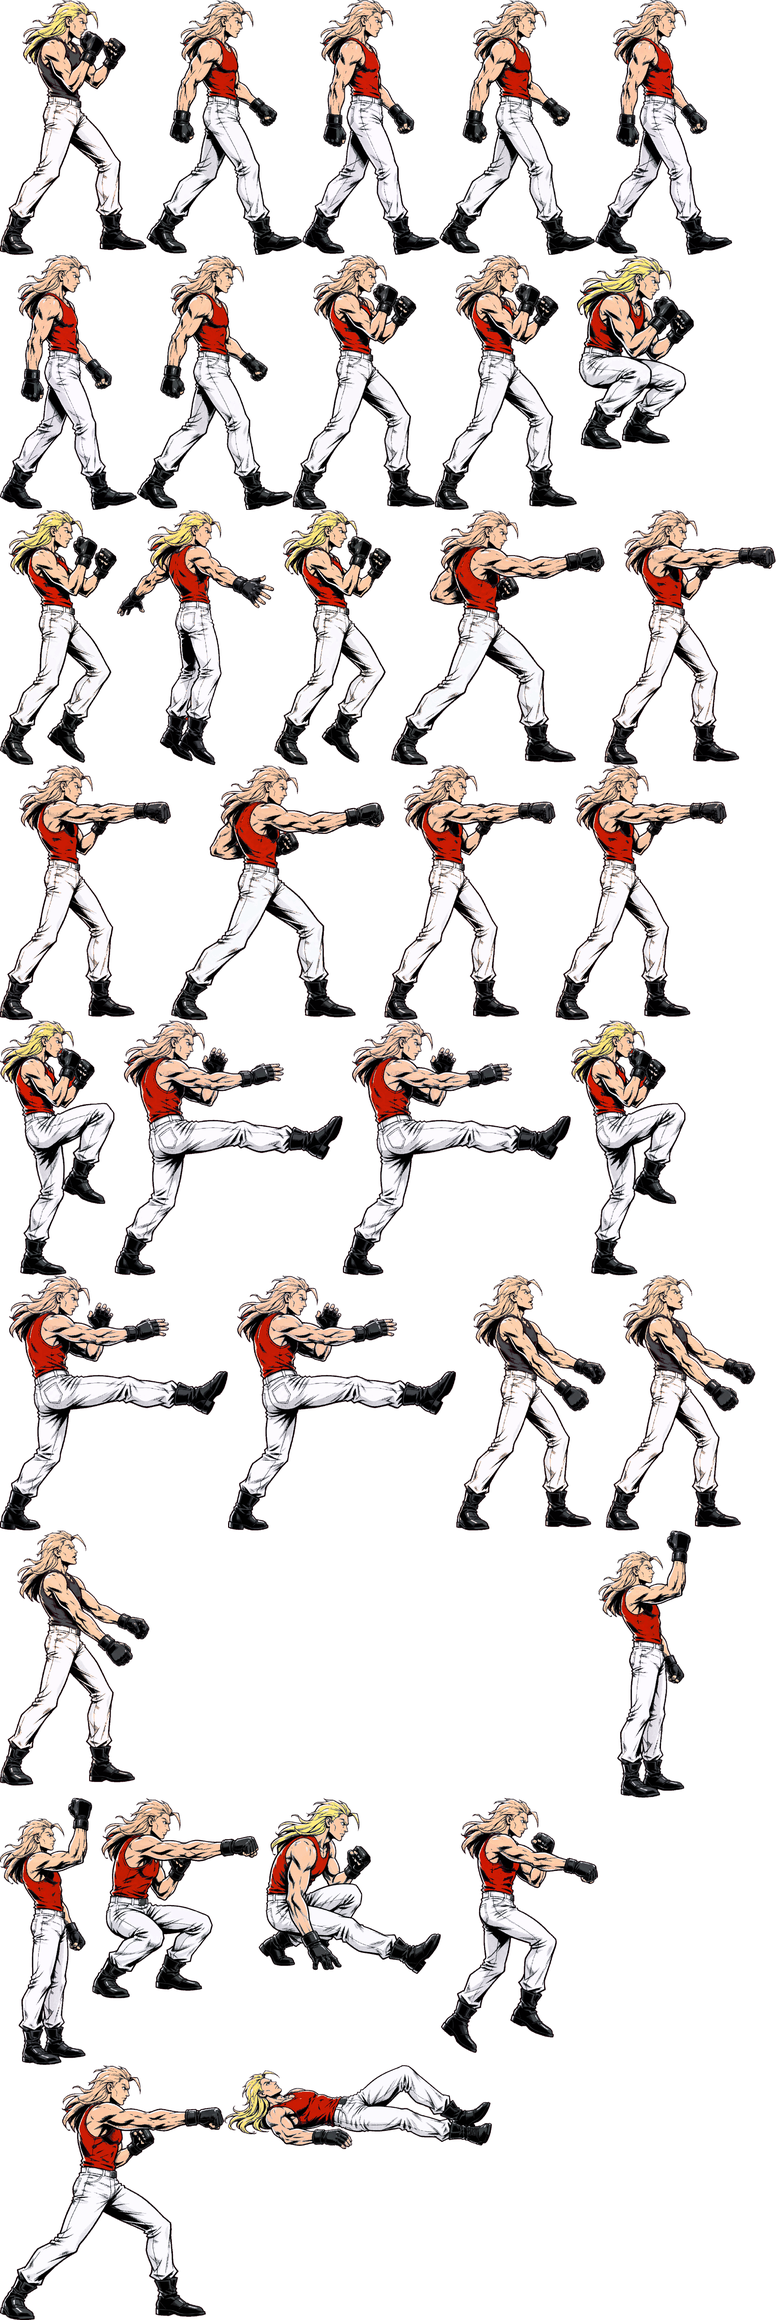
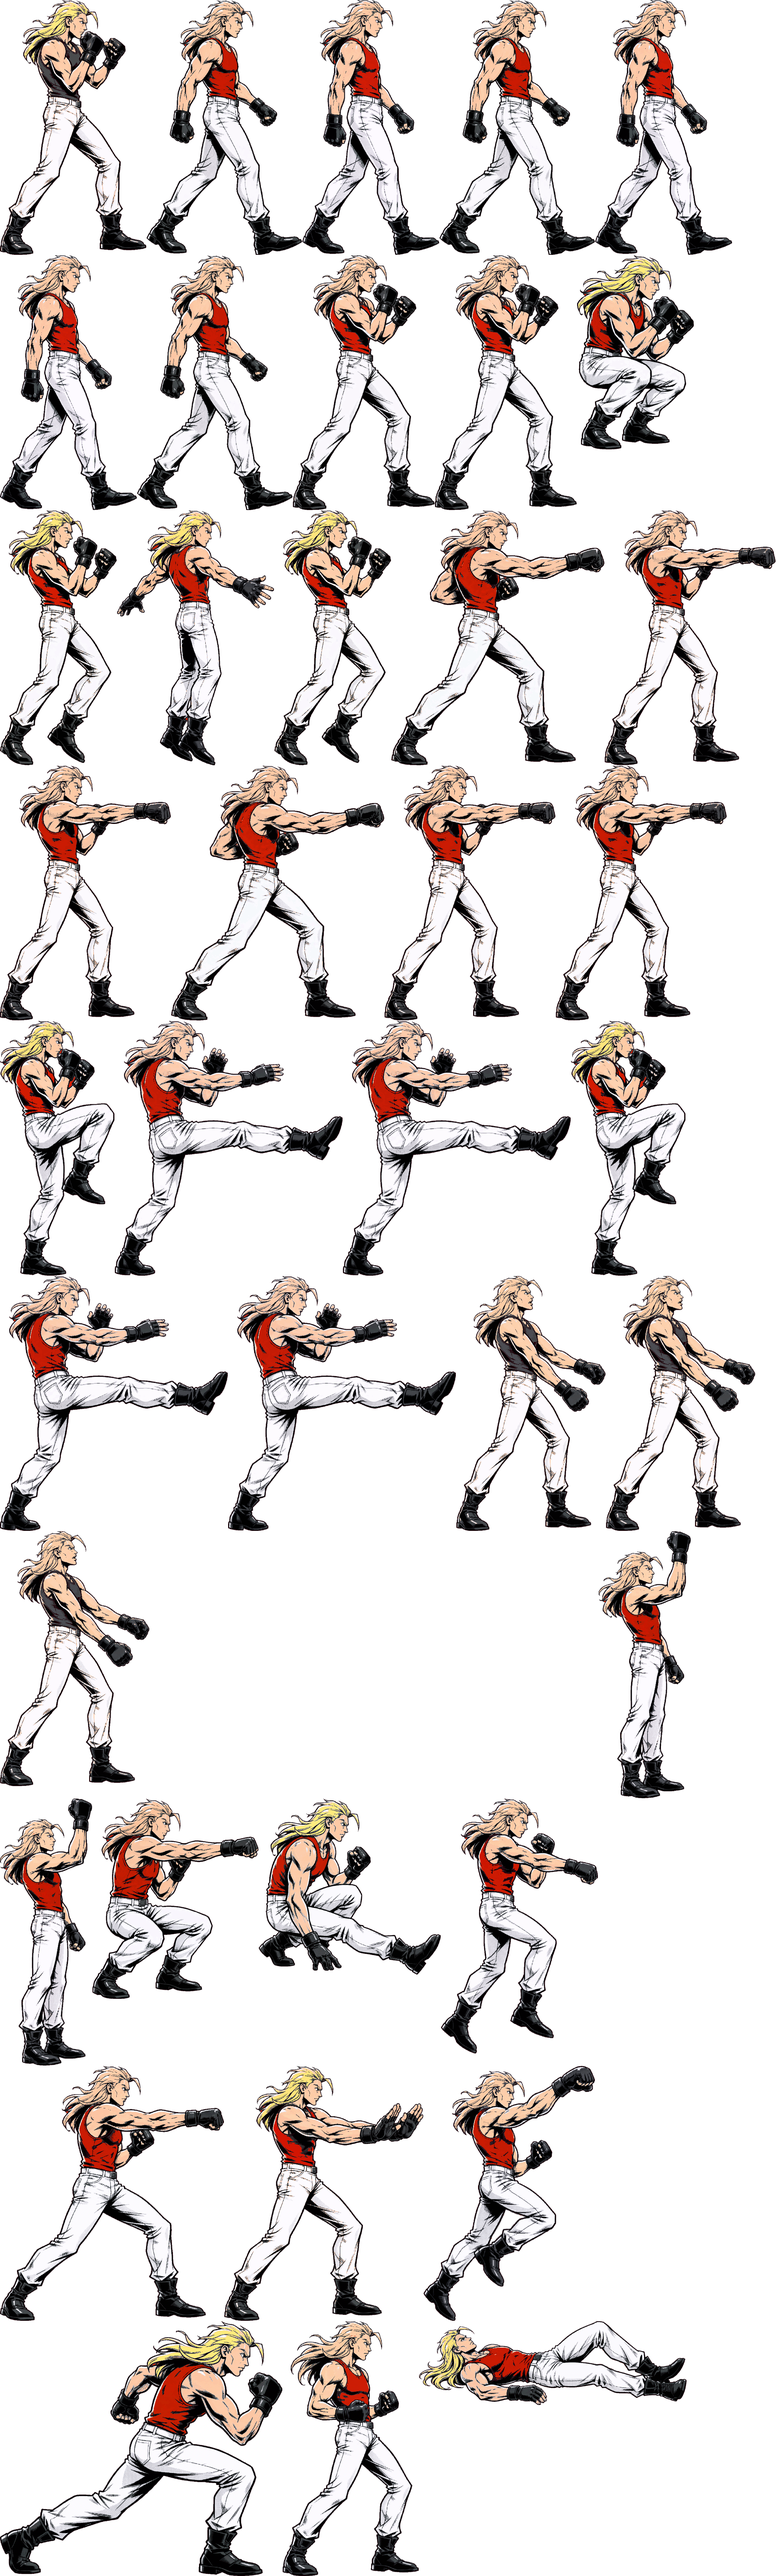
批次 20261025-2015 · [T212] 批量出图进行中：八神庵已完成（含变体重派生）
进行中：后台循环 26 个角色（每个 4 个必杀专属姿势 + 重新打包，约 4 分钟/角色），
日志 /tmp/gen-special-all.log

本次提交：
- 八神庵 4 个姿势全部生成成功（"完成。失败：无"），打包后 33 个动画
  （原 29 + 4 新），public/sheets/iori.png 2.27MB
- 重新派生暴走八神（orochi_iori 由本体染色得来）——门禁抓到变体的动画表还是旧的
  29 个，不重派生的话暴走八神不会有专属姿势

为什么留 [~]：26 个只跑完 1 个，其余在后台；图集是大二进制，每个角色落盘后跟着提交。

怎么验证的：npm run check 911 条全绿（"变体动画表必须与本体一致"这条正是它抓出来的）

diff --git a/.continue/doing/59bce7.md b/.continue/doing/59bce7.md
@@ -1,0 +1,15 @@
+# 队列 · 会话 59bce766a368447c9cf15c7e36322c83
+
+> 状态：执行中
+> 创建：2026-10-25
+> 批次：20261025-2021
+
+> 本批目标：把京验证过的"必杀专属姿势"批量铺到其余 26 个角色（管线已通，
+> 每个角色出 4 个姿势 + 打包，约 4 分钟）。
+
+- [~] [T212] 批量出图：26 个角色各 4 个必杀专属姿势 + 重新打包（后台跑，逐个落盘）
+  - 进行中：后台 `gen-all-special.sh` 循环 26 个角色（每个 4 姿势 + 打包，约 4 分钟/角色，全量约 1.7 小时），日志 `/tmp/gen-special-all.log`
+  - 已完成：**八神庵**——4 个姿势全部生成（无失败），打包后图集 33 个动画（原 29 + 4 新），`specialProjectile/Uppercut/Rush` 与 `superCharge` 各 1 帧，`public/sheets/iori.png` 2.27MB
+  - 为什么卡在 [~] 而不是 [x]：26 个角色只跑完 1 个，剩下的还在后台；每个角色落盘后需要跟着提交（图集是大二进制，攒着一起提会把一次提交撑到 40MB+）
+  - 验证：`node -e` 直接读 `iori.json` 确认 4 个新动画都在且有帧；`npm run check` 911 条全绿
+  - 批次：20261025-2015

diff --git a/.continue/TASKS.md b/.continue/TASKS.md
@@ -228,3 +228,4 @@
 - [x] T209 训练场连击面板：当前连击 + 本次最高（连断后保留最高）
 - [x] T210 连招演示结果回报：播完显示实际连击数与实际伤害（取真实对局值）
 - [x] T211 街机进度显示：对局左上角「STAGE N/8 · 对手队名」
+- [~] T212 批量出必杀专属姿势：26 个角色各 4 个姿势 + 重新打包（后台跑，逐个落盘与提交）
